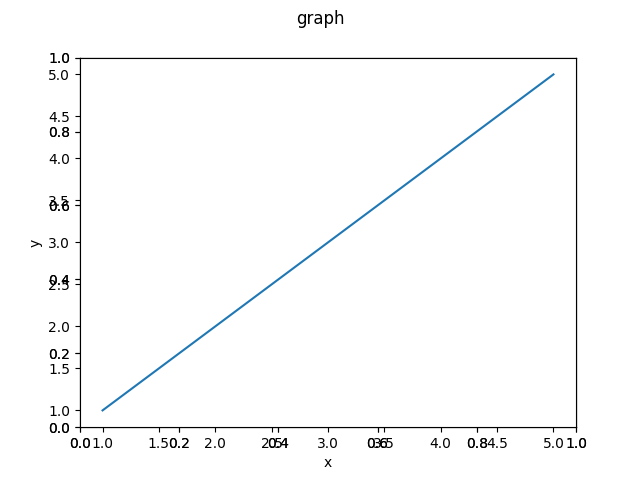
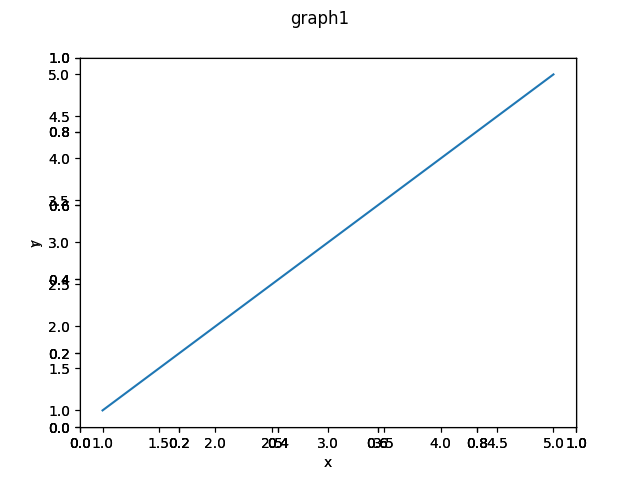
Added type utilities

diff --git a/src/util.py b/src/util.py
@@ -1,7 +1,43 @@
+from typing import overload
+
 import customtkinter, tkinter
 
-def is_type(this, other):
-    return isinstance(this, other)
+NULL = None
+null = NULL
+
+class Types:
+    @classmethod
+    def are_list_items_same(cls, this: list, other: list):
+        ret = []
+        if len(this) != len(other):
+            raise ValueError(f"Lists are not the same length: This -> {len(this)} & Other -> {len(other)}")
+        for i in range(len(this)):
+            if cls.is_type(this[i], other[i]):
+                ret.append(True)
+            else:
+                ret.append(False)
+
+        return ret
+
+    @classmethod
+    def is_class_same(cls, this: object, other: object):
+        ret = {}
+        for key in list(this.__dict__.keys()):
+            if hasattr(other, key):
+                if other.__dict__[key] == this.__dict__[key]:
+                    ret[key] = True
+                else:
+                    ret[key] = False
+            else:
+                ret[key] = null
+
+        return ret
+
+
+    @classmethod
+    def is_type(cls, this, other):
+        return isinstance(this, other)
+
 
 def read_file(file, options={}):
     # read a file and return its contents

diff --git a/src/main.py b/src/main.py
@@ -15,4 +15,7 @@ if __name__ == "__main__":
     window.add_widget(Label(style={}, properties={"text": "Test Label"}, binds={}, master=window()), {"place": {"relx": 0, "rely": 0, "anchor": util.WestAnchor.get_anchor()}})
     graph = graphing.Graph(graphing.GraphOptions("x", "y", [1, 2, 3, 4, 5], [1, 2, 3, 4, 5], "graph", util.ImageScale(500, 500), "line"), window())
     window.add_widget(graph.display(), {"place": {"relx": 0.5, "rely": 0.5, "anchor": util.CenterAnchor().get_anchor()}})
+    graph2 = graphing.Graph(graphing.GraphOptions("x", "r", [1, 2, 3, 4, 5], [1, 2, 3, 4, 5], "graph1", util.ImageScale(500, 500), "line"), window())
+    window.add_widget(graph2.display(), {"place": {"relx": 0, "rely": 0.5, "anchor": util.CenterAnchor().get_anchor()}})
     window.main_loop()
+

diff --git a/src/widgets.py b/src/widgets.py
@@ -96,7 +96,7 @@ class Image():
             if img is not None:
                 # scale the image
                 if "scale" in options:
-                    if util.is_type(options["scale"], util.ImageScale):
+                    if util.Types.is_type(options["scale"], util.ImageScale):
                         img = img.resize(options["scale"]())
                     else:
                         raise ValueError("Incorrect argument, scale option must be of type ImageScale")
